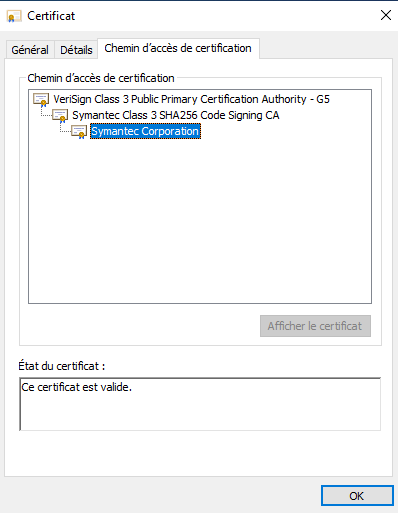
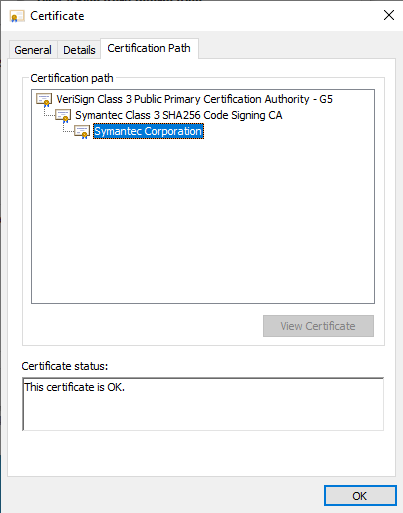
docs: Finish converseion to english with all images

diff --git a/append/usr/local/share/www/Documentation_en.md b/append/usr/local/share/www/Documentation_en.md
@@ -952,14 +952,14 @@ Software impacted by this risk
 ### Risk: Attack on signature verification
 
 | Risk | Attack on signature verification |
-| ----------- | -------------------------------------------------- -------- |
+| ----------- | ---------------------------------------------------------- |
 | Criticality | Major |
 | Comment | If the software used for signature verification <br />are compromised, malicious files might be passed through the DSAS. <br /> This will undermine the primary purpose of the DSAS, but <br />will be limited to asynchronous attacks. |
 
 Software impacted by this risk
 
 | software | version | comment |
-| -------------- | ---------- | ----------------------- -------------------------------------------------- ----- |
+| -------------- | ---------- | ------------------------------------------------------------------------------ |
 | openssl | [1.1.1l](https://www.openssl.org/source/openssl-1.1.1l.tar.gz) | Used for authenticode, LiveUpdate and OpenSSL verification |
 | gnupg | [2.2.27](https://www.gnupg.org/ftp/gcrypt/gnupg/gnupg-2.2.27.tar.bz2) | Used for RPM, DEB and GPG verification |
 | libgcrypt | [1.9.3](https://www.gnupg.org/ftp/gcrypt/libgcrypt/libgcrypt-1.9.3.tar.bz2) | Used for RPM, DEB and GPG verification |
@@ -969,14 +969,14 @@ Software impacted by this risk
 ### Risk: Attack on the means of downloading files
 
 | Risk | Attack on the means of downloading files |
-| ----------- | -------------------------------------------------- ------- |
+| ----------- | --------------------------------------------------------- |
 | Criticality | Important |
 | Comment | All download connections are initiated by the <br />DSAS, so this risk can only be used from specific <br />machines. The risk cannot be <br />used to hijack the main function of the DSAS<br /> |
 
 Software impacted by this risk
 
 | software | version | comment |
-| ------------- | ---------- | ------------------------ -------------------------------------------------- ---- |
+| ------------- | ---------- | ------------------------------------------------------------------------------ |
 | openssl | [1.1.1l](https://www.openssl.org/source/openssl-1.1.1l.tar.gz) | only the functionality used by ssh impacted |
 | openssh | [8.8p1](https://ftp.openbsd.org/pub/OpenBSD/OpenSSH/portable/openssh-8.8p1.tar.gz) | scp and sftp used |
 | curl | [7.79.1](https://curl.se/download/curl-7.79.1.tar.bz2) | Used for http, https and ftp |
@@ -985,14 +985,14 @@ Software impacted by this risk
 ### Risk: Attack against DSAS administrator authentication
 
 | Risk | Attack against DSAS administrator authentication |
-| ----------- | -------------------------------------------------- ------- |
+| ----------- | --------------------------------------------------------- |
 | Criticality | Important |
 | Comment | The DSAS administration site is only available <br />from the sensitive network, and normally by configuring the <br />DMZ where the DSAS is installed accessible only from well-controlled <br />machines. So the risk is limited to an attack from a <br />console allowed to access the DSAS by someone not <br />authorized to do so. The risk of reconfiguring the DSAS to allow <br />unwanted files to enter or to prevent wanted files from <br />doing so. |
 
 Software impacted by this risk
 
 | software | version | comment |
-| ------------- | ---------- | ------------------------ -------------------------------------------------- ---- |
+| ------------- | ---------- | ------------------------------------------------------------------------------ |
 | php-cgi | [8.0.1](http://tinycorelinux.net/12.x/x86/tcz/php-8.0-cgi.tcz) | Backend of the administration site |
 | lighttpd | [1.4.58](http://tinycorelinux.net/12.x/x86/tcz/lighttpd.tcz) | Backend of the administration site |
 | cyrus-sasl-lite | [2.1.27](http://tinycorelinux.net/12.x/x86/tcz/cyrus-sasl-lite.tcz) | Authentication on the administration site |
@@ -1032,9 +1032,9 @@ will install all the tools necessary for the build
 
 If you have a French keyboard, the easier is to add
 
-`` `
-setxkmap en
-`` `
+```shell
+setxkmap fr
+```
 
 to the `~/.xession` file or run this command from an X11 console. 
 
